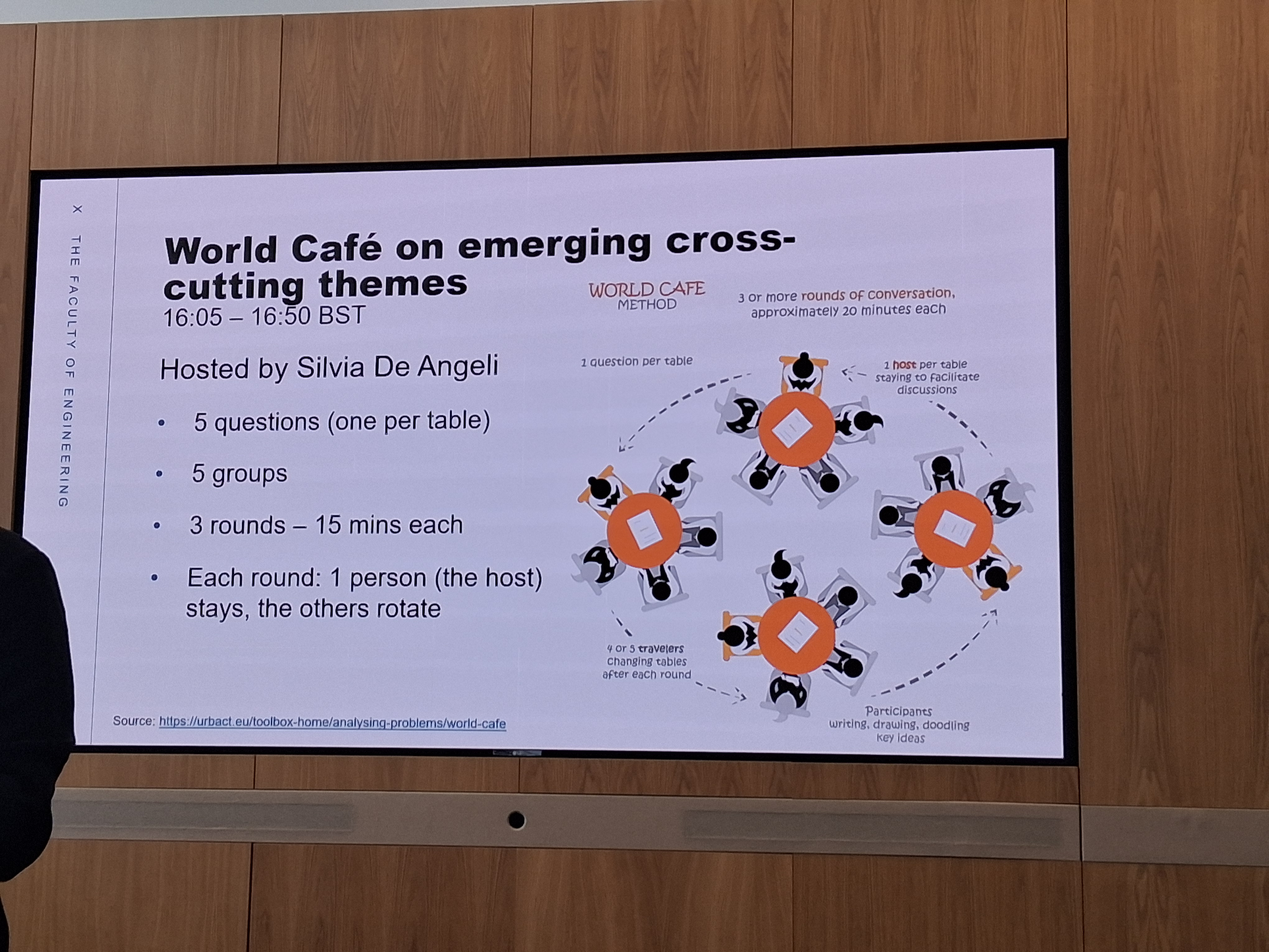
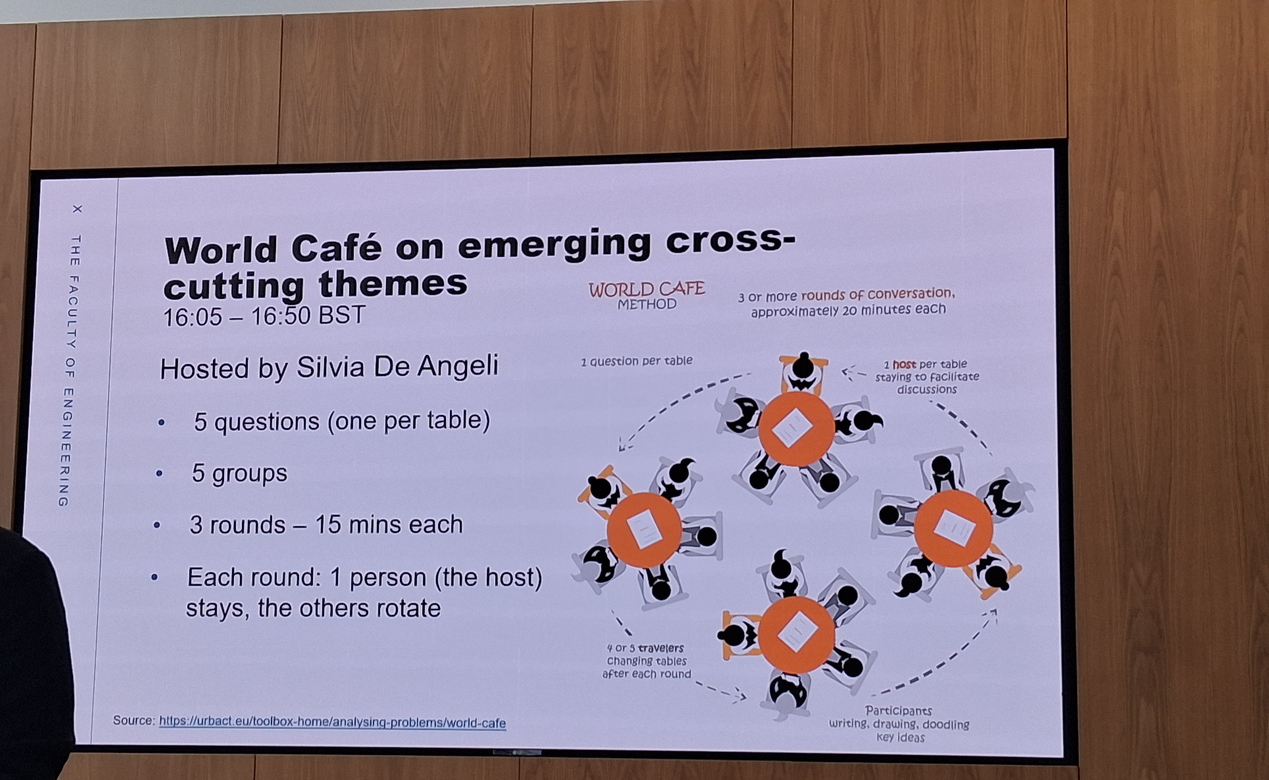
Crop images, demote World Cafe to subheading, remove duplicate Miro board

diff --git a/src/content/blog/anticipate-general-meeting.md b/src/content/blog/anticipate-general-meeting.md
@@ -33,7 +33,7 @@ I was one of the youngest there. A few second and third year PhDs, but the vast 
 
 ![The Duke of Wellington statue outside the Gallery of Modern Art in Glasgow, which I visited after day two wrapped up.](/images/blog/anticipate-general-meeting/duke-of-wellington.jpg)
 
-## The World Cafe
+### The World Cafe
 
 In the afternoon, we did a World Cafe. Five tables, five questions, each hosted by a working group lead. You sit down, brainstorm for 15 minutes, then rotate to the next table and build on what the last group wrote. The questions ranged from big-picture (what makes a multi-hazard forecast product credible to a stakeholder?) to practical (what are the best visualisation practices? does language or colour choice create barriers?). All parts of the pipeline, from data to operational product were touched on.
 
@@ -42,8 +42,6 @@ In the afternoon, we did a World Cafe. Five tables, five questions, each hosted 
 ## Day two
 
 The second day had a panel discussion with the group leads, paired with a live Miro board where anyone could post thoughts and questions in real time. The focus was on training schools, short-term scientific missions, and outreach.
-
-![A screenshot of the Miro board used during the panel.](/images/blog/anticipate-general-meeting/miro-board.jpg)
 
 At the end, we did a Mentimeter quiz on what outputs we expected from the COST Action (world domination being one of them), and what newspaper headlines would reflect on the COST Action by the end (Breaking news: the ECMWF has folded into ANTICIPATE!).
 
